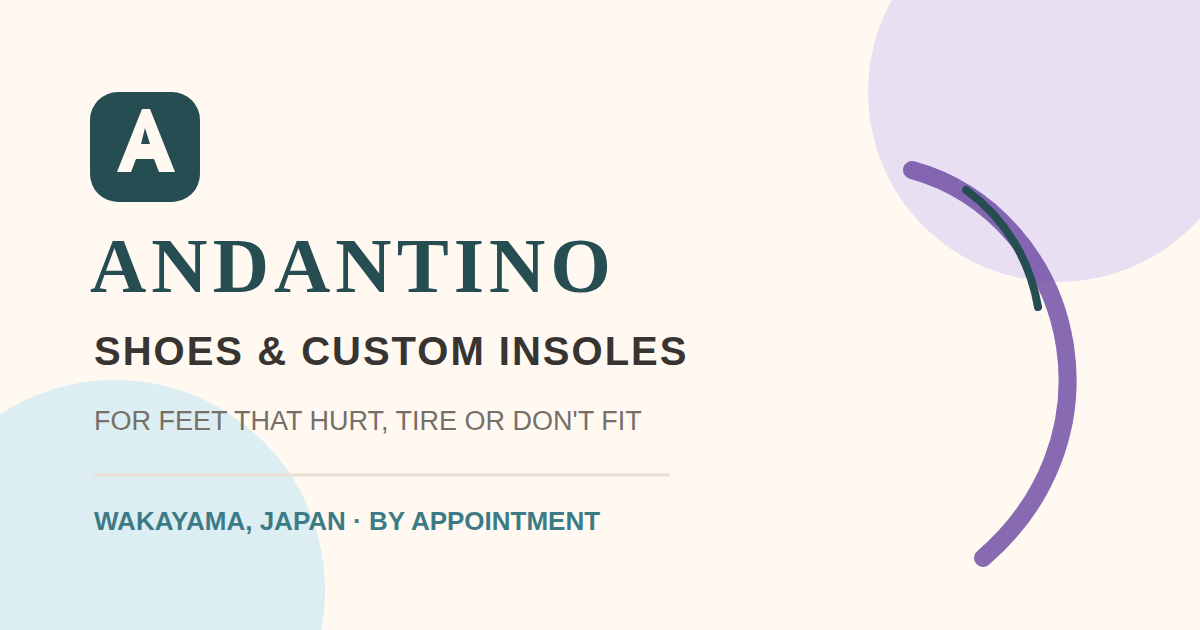
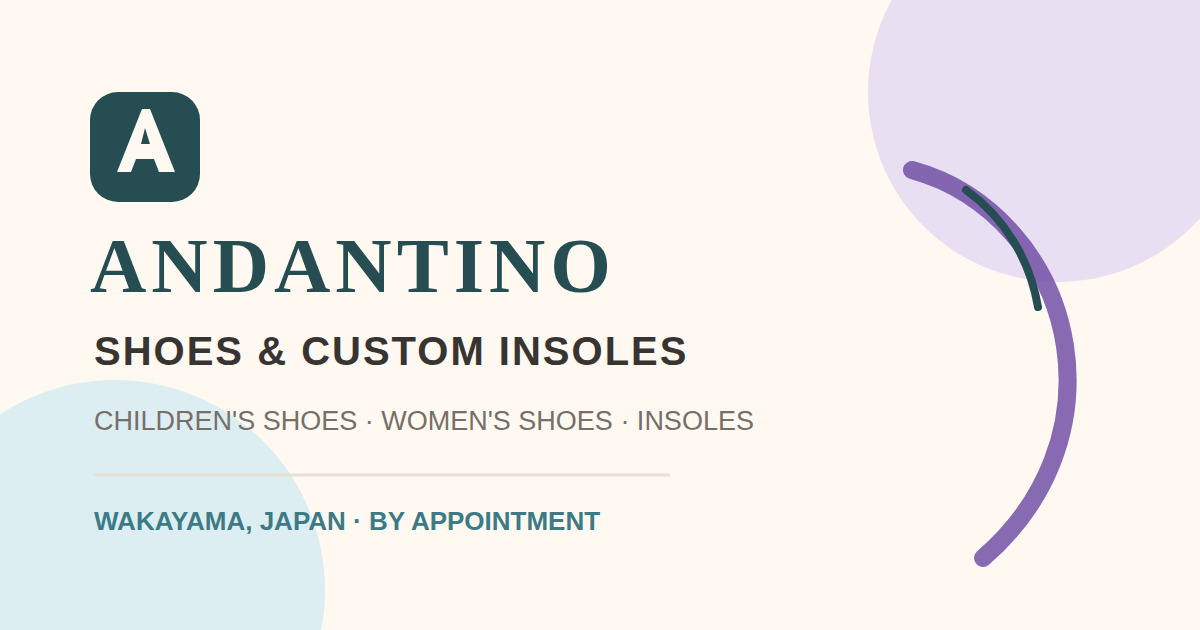
情緒コピーを原文へ差し戻し、看板の変更のみ維持
オーナーが大切にしている言葉まで書き換えてしまっていたため、
トップの訴求コピーを元サイトの表現に戻す。店の看板（タグライン）を
「靴とインソールの専門店」に統一する変更と「相談室」表現の廃止のみ残す。

- ヒーローの eyebrow/H1/リード/チップ/バッジを原文へ復帰
  （「歩くことが、もっと好きになる。」「家族の足に、ずっと寄り添う靴選び。」ほか）
- trust「「売る」より先に、足のことを考えます。」、OUR SUPPORT
  「足から健康に。3つの専門サポート」、フッター文を原文へ復帰
- meta/OG/JSON-LD から売り込み文（悩み解決・痛みなく等）を外し、
  原文の「家族の健やかな歩みを支えます」を復帰（看板は新表記を維持）
- OG画像の副題を原文の商品ライン（CHILDREN'S/WOMEN'S SHOES · INSOLES）
  に戻して再生成
- llms.txt の店舗説明も売り込み表現を外して原文寄りに

Claude-Session: https://claude.ai/code/session_01UzbbVSh1Xc9b1s1vBGGASP

Changed region(s): [[0.0617, 0.6333, 0.6475, 0.6937]]

diff --git a/index.html b/index.html
@@ -5,7 +5,7 @@
     <meta name="viewport" content="width=device-width, initial-scale=1">
     <meta
       name="description"
-      content="和歌山市の靴とインソールの専門店ANDANTINO。歩くと痛い・疲れる・靴が合わない足の悩みに、足に合う靴選びとオーダーインソール作製でお応えします。"
+      content="和歌山市の靴とインソールの専門店ANDANTINO。足に合う靴選びとインソール作製で、家族の健やかな歩みを支えます。"
    >
     <meta name="theme-color" content="#fff9f2">
     <meta name="robots" content="index,follow,max-image-preview:large">
@@ -18,7 +18,7 @@
     <meta property="og:locale" content="ja_JP">
     <meta property="og:site_name" content="ANDANTINO">
     <meta property="og:title" content="ANDANTINO｜和歌山の靴とインソールの専門店">
-    <meta property="og:description" content="歩くと痛い・疲れる・靴が合わない。その足の悩みに、足に合う靴選びとオーダーインソール作製でお応えする和歌山市の専門店です。">
+    <meta property="og:description" content="足に合う靴選びとインソール作製で、家族の健やかな歩みを支える和歌山市の靴とインソールの専門店です。">
     <meta property="og:url" content="https://www.andantino-shoes.jp/">
     <meta property="og:image" content="https://www.andantino-shoes.jp/assets/og-image.png">
     <meta property="og:image:width" content="1200">
@@ -41,7 +41,7 @@
             "@id": "https://www.andantino-shoes.jp/#store",
             "name": "ANDANTINO",
             "alternateName": "アンダンティーノ",
-            "description": "和歌山市の靴とインソールの専門店。足に合う靴選びとオーダーインソール作製を軸に、歩くと痛い・疲れる・靴が合わないといった足の悩みにお応えします。",
+            "description": "和歌山市の靴とインソールの専門店。足に合う靴選びとインソール作製で、家族の健やかな歩みを支えます。",
             "url": "https://www.andantino-shoes.jp/",
             "image": [
               "https://www.andantino-shoes.jp/assets/store.webp",
@@ -102,7 +102,7 @@
             ],
             "hasOfferCatalog": {
               "@type": "OfferCatalog",
-              "name": "ANDANTINOの靴・インソール・サポート",
+              "name": "ANDANTINOの相談・サポート",
               "itemListElement": [
                 {"@type": "Offer", "itemOffered": {"@type": "Service", "name": "足と靴のカウンセリング"}},
                 {"@type": "Offer", "itemOffered": {"@type": "Service", "name": "子どもの足のカウンセリング"}},
@@ -127,7 +127,7 @@
             "@id": "https://www.andantino-shoes.jp/#webpage",
             "url": "https://www.andantino-shoes.jp/",
             "name": "ANDANTINO｜和歌山の靴とインソールの専門店",
-            "description": "和歌山市の靴とインソールの専門店ANDANTINO。歩くと痛い・疲れる・靴が合わない足の悩みに、足に合う靴選びとオーダーインソール作製でお応えします。",
+            "description": "和歌山市の靴とインソールの専門店ANDANTINO。足に合う靴選びとインソール作製で、家族の健やかな歩みを支えます。",
             "isPartOf": {
               "@id": "https://www.andantino-shoes.jp/#website"
             },
@@ -191,12 +191,11 @@
       <section class="hero">
         <div class="container hero__grid">
           <div class="hero__copy">
-            <p class="eyebrow">歩くと痛い・疲れる・靴が合わない方へ</p>
-            <h1>その足の悩み、<br>靴とインソールで解決。</h1>
+            <p class="eyebrow">歩くことが、もっと好きになる。</p>
+            <h1>家族の足に、<br>ずっと寄り添う靴選び。</h1>
             <p class="hero__lead">
-              外反母趾や疲れやすさ、合わない靴。足を計測して原因を見極め、
-              足に合う靴選びと一人ひとりに合わせたインソール作製で、痛みなく歩ける毎日へ。
-              大人の足も、成長途中のお子さまの足も。
+              30代からの女性の足も、成長途中のお子さまの足も。
+              専門スタッフが一人ひとりに合う一足をお選びします。
             </p>
             <div class="hero__buttons">
               <a class="button" href="https://line.me/R/ti/p/@680mdoos" target="_blank" rel="noopener">
@@ -205,10 +204,10 @@
               </a>
               <a class="text-link" href="tel:[phone redacted]">お電話で相談する</a>
             </div>
-            <ul class="hero__checks" aria-label="提供内容">
-              <li>足の計測・分析</li>
-              <li>足に合う靴選び</li>
-              <li>インソール作製</li>
+            <ul class="hero__checks" aria-label="相談内容">
+              <li>足の計測</li>
+              <li>靴選び</li>
+              <li>インソール</li>
             </ul>
           </div>
 
@@ -223,7 +222,7 @@
               <span class="hero__badge-icon">✓</span>
               <div>
                 <strong>初めての方も安心</strong>
-                <small>足の計測から作製まで</small>
+                <small>計測・フィッティング相談</small>
               </div>
             </div>
           </div>
@@ -235,15 +234,15 @@
         <div class="container trust__grid">
           <div class="trust__intro">
             <span class="section-kicker">WHY ANDANTINO</span>
-            <h2>痛みや疲れの原因に、<br>合う靴とインソールで応える。</h2>
+            <h2>「売る」より先に、<br>足のことを考えます。</h2>
           </div>
           <p>
-            足トラブルの多くは、足に合わない靴が原因です。足を計測して原因を見極め、
-            合う靴選びと一人ひとりに合わせたインソール作製で、根本から歩きやすさを整えます。
+            足トラブルの原因の多くは靴にあります。だから私たちは、まずお話を聞き、足を見て、
+            歩き方や暮らし方まで考えてからご提案します。
           </p>
           <div class="trust__points">
             <span>シューフィッター在籍</span>
-            <span>足の計測・分析</span>
+            <span>予約制でゆっくり相談</span>
             <span>和歌山市の専門店</span>
           </div>
         </div>
@@ -298,11 +297,11 @@
           <div class="section-heading section-heading--row">
             <div>
               <span class="section-kicker">OUR SUPPORT</span>
-              <h2>足の悩みを解決する、<br>3つの専門サポート</h2>
+              <h2>足から健康に。<br>3つの専門サポート</h2>
             </div>
             <p>
-              足に合う靴選びとインソール作製を軸に、計測・カウンセリングを組み合わせて、
-              痛みなく歩ける毎日をつくります。
+              カウンセリング・靴・インソールを組み合わせ、
+              お一人おひとりの健やかなウォーキングライフを支えます。
             </p>
           </div>
 
@@ -421,7 +420,7 @@
           <span class="brand__name">ANDANTINO</span>
           <span class="brand__tagline">靴とインソールの専門店</span>
         </div>
-        <p>足に合う靴とインソールで、痛みなく歩ける毎日を。</p>
+        <p>足に合う靴と正しい靴選びで、家族の健やかな毎日を。</p>
         <div class="footer__links">
           <a href="#adult">大人の靴</a>
           <a href="#children">子どもの足育</a>